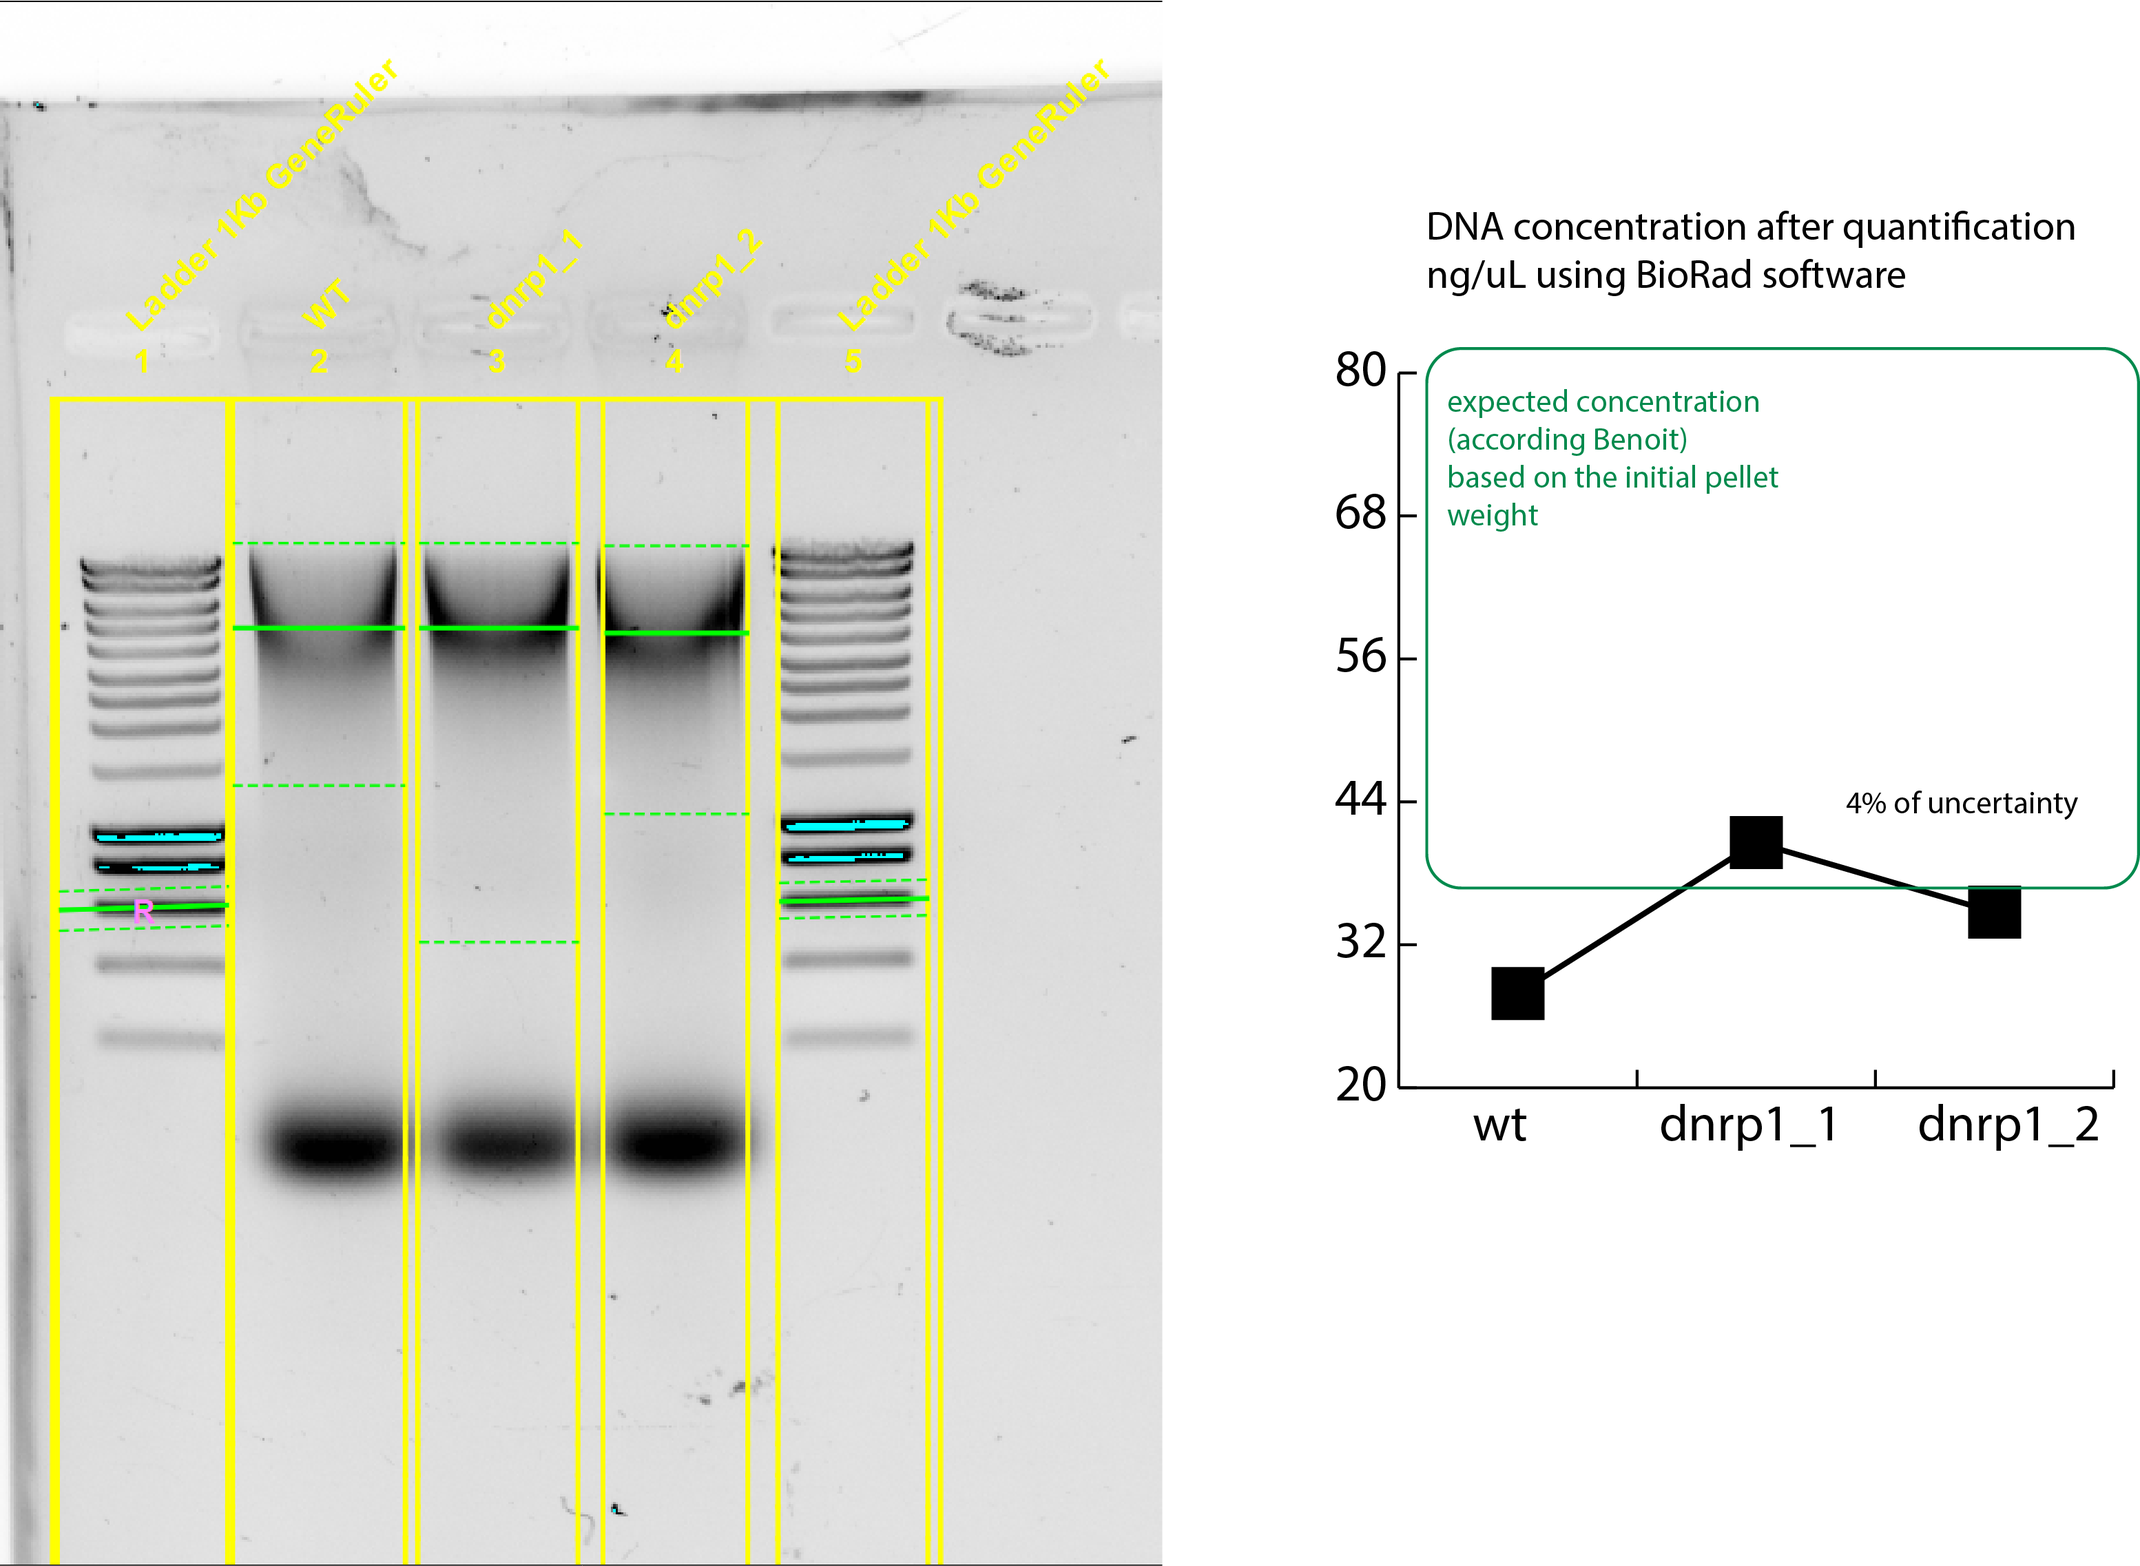
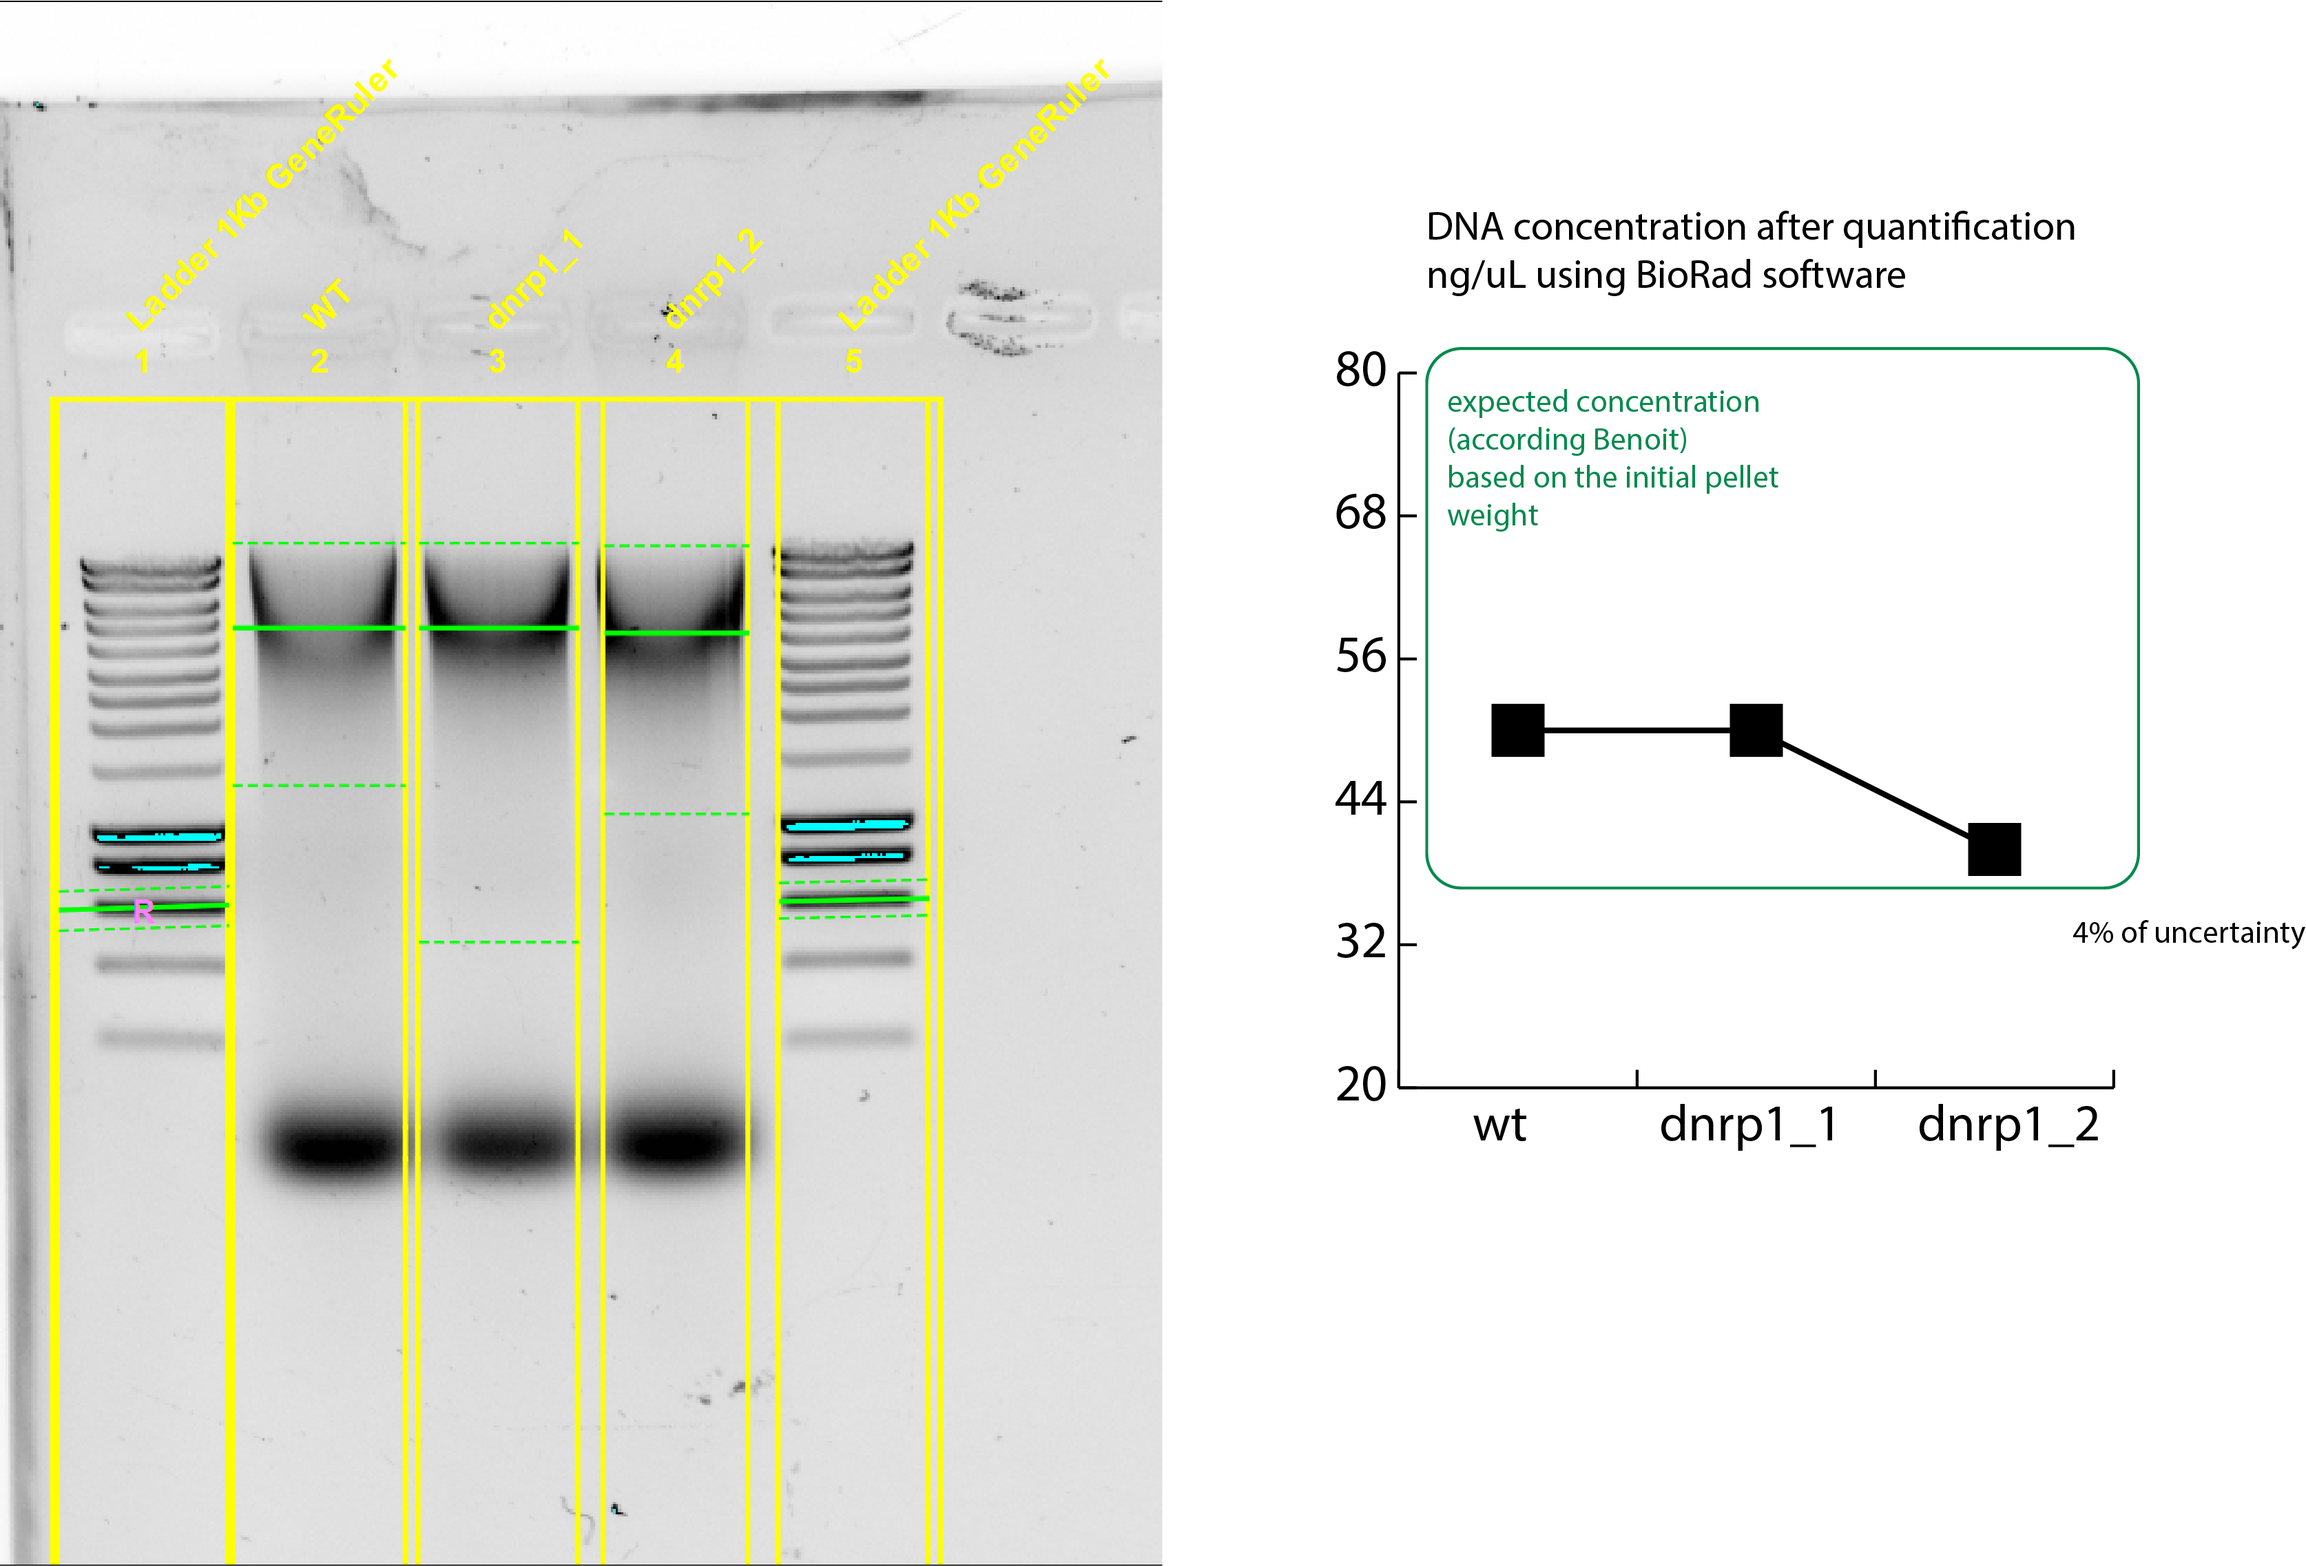
enough DNA for WT , dnrp1 to continue

diff --git a/journal/2020-10/2020-10-15-More-DNA-extraction-WT-dnrp1.md b/journal/2020-10/2020-10-15-More-DNA-extraction-WT-dnrp1.md
@@ -29,7 +29,7 @@ colorlinks: true
 
 ## Date
 
-15102020- 
+15102020
 
 ## Objective
 
